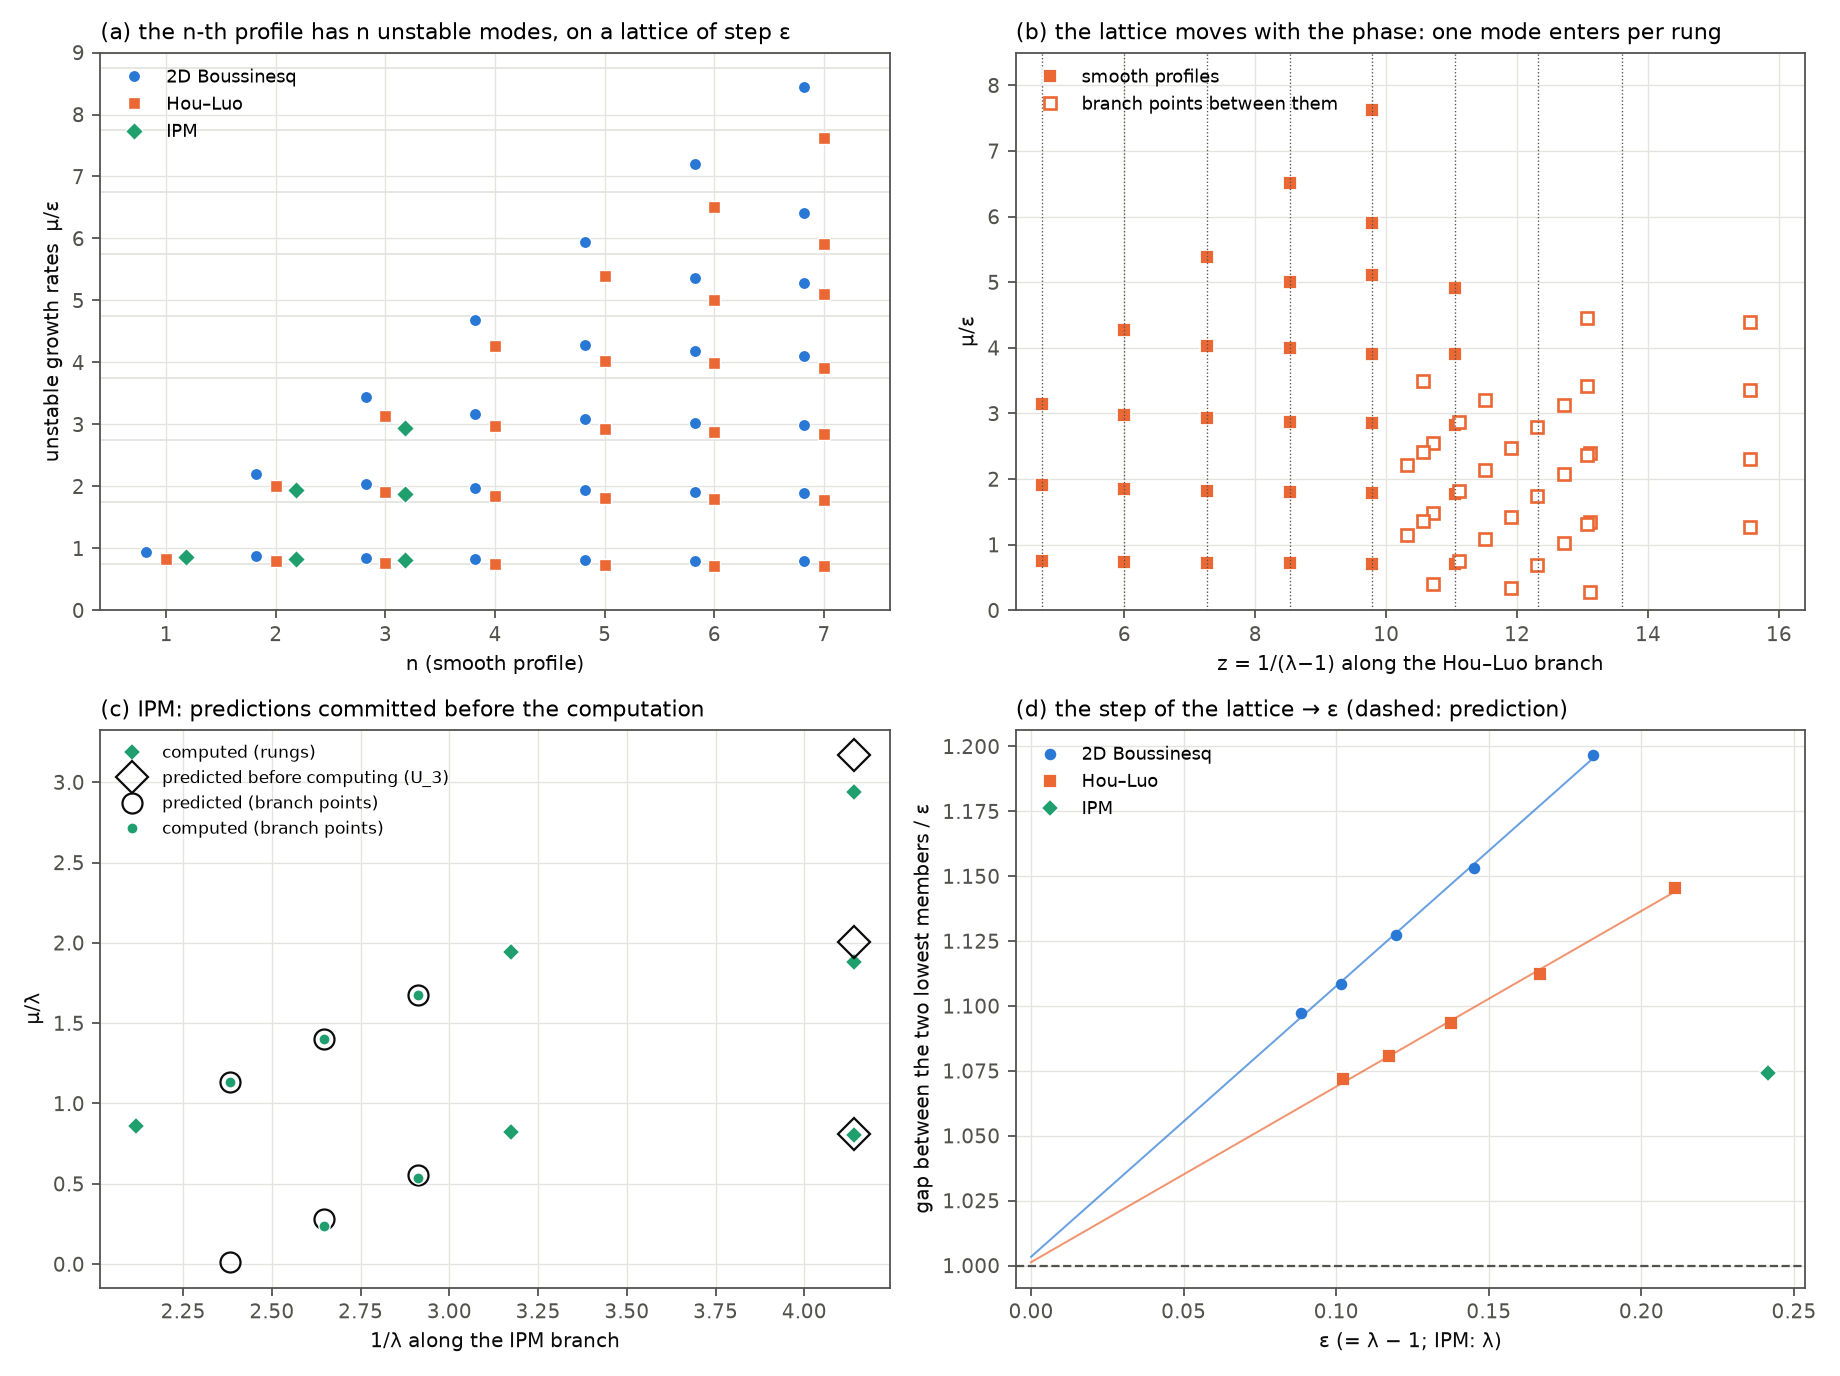
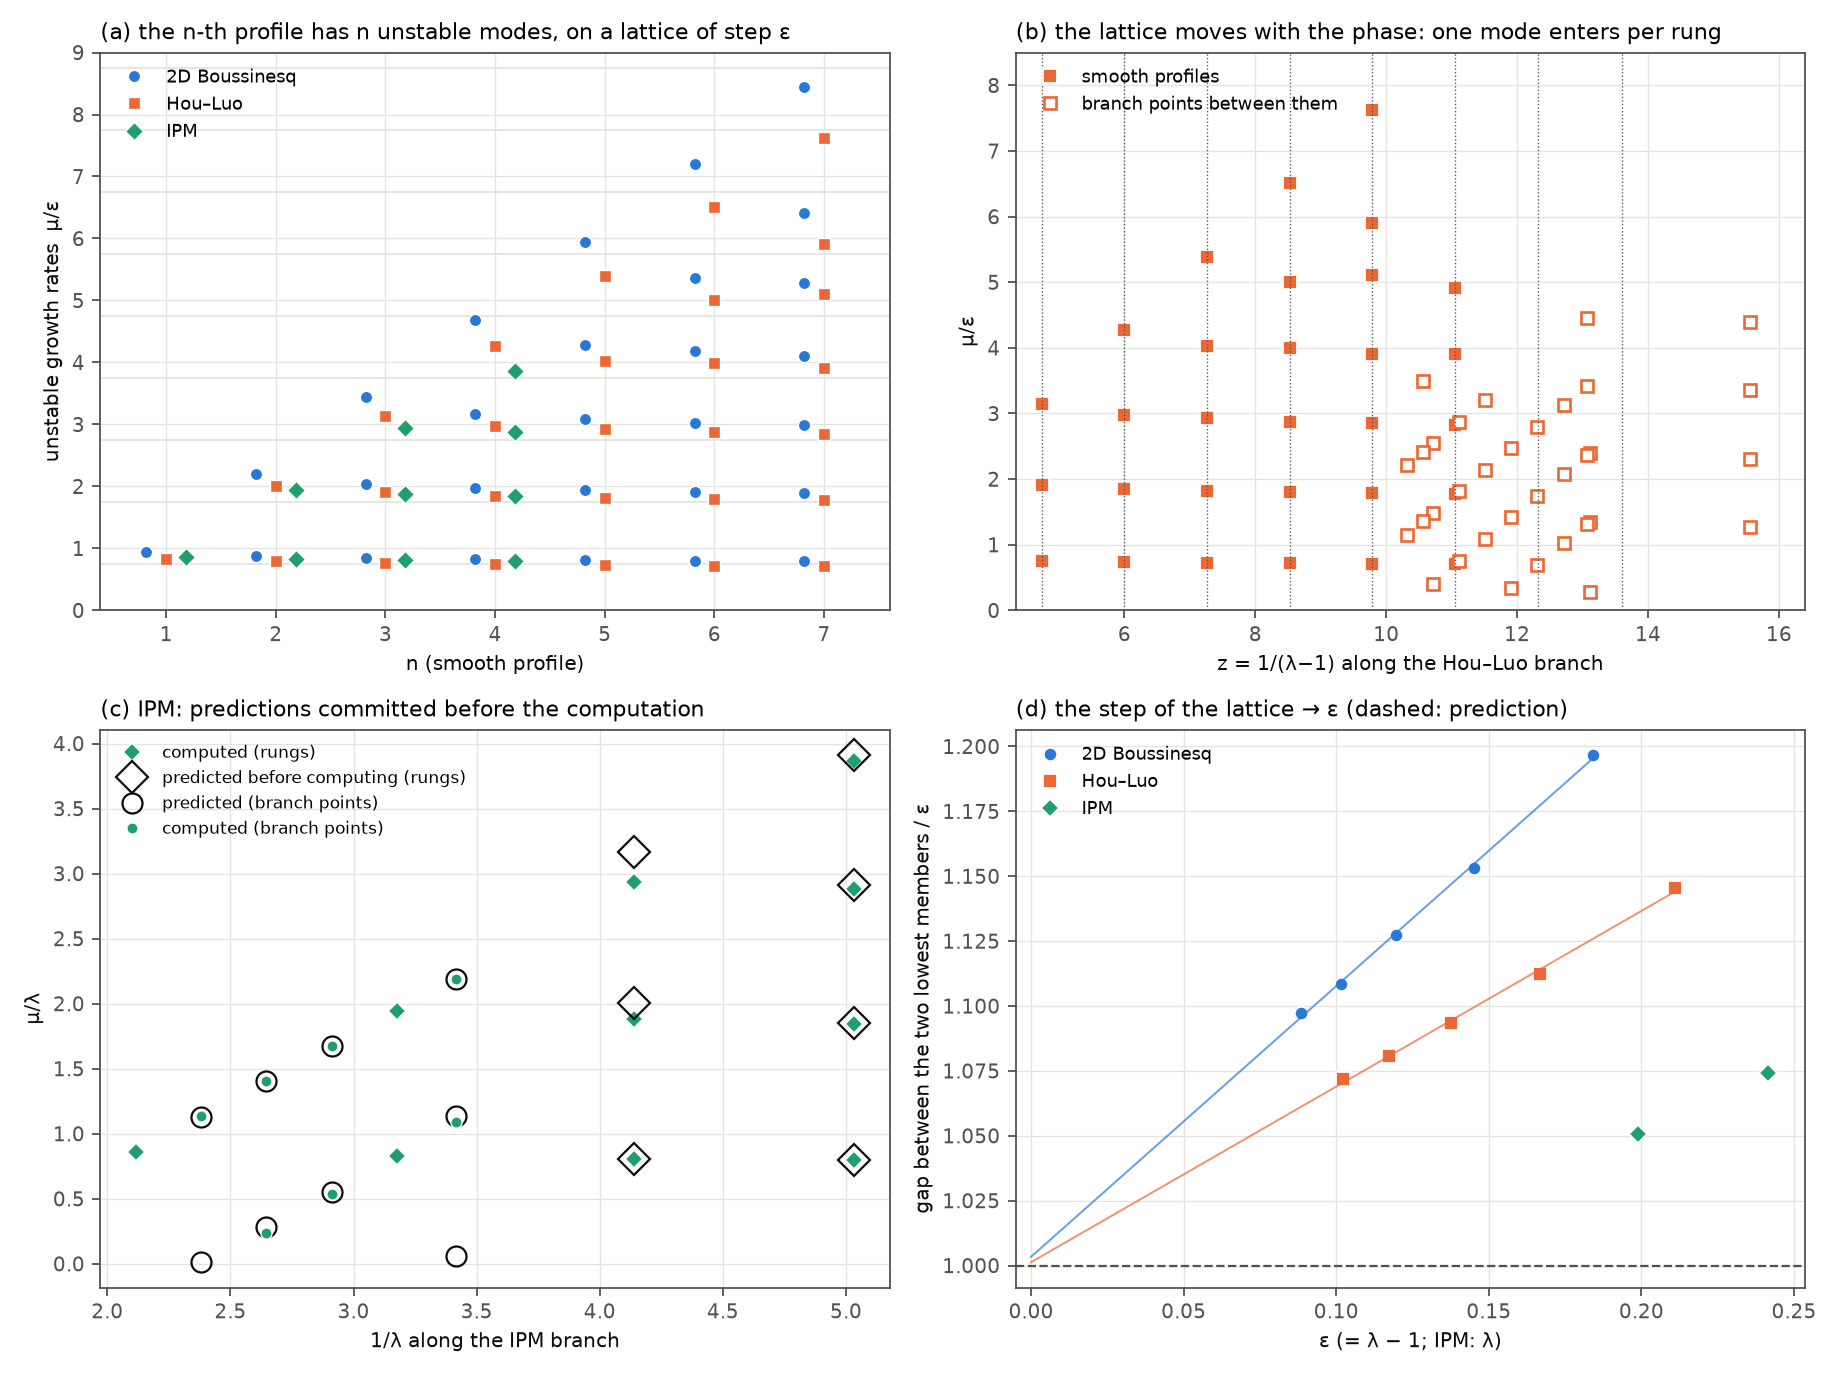
P03: final figures (IPM rungs on the fine grid, U_4, second spectral-flow interval), main text and presubmission enquiry updated with the IPM blind-test outcome; RLOG R033
Claude-Session: https://claude.ai/code/session_019Uaxwtm17foVxpyvRRENv5

diff --git a/programs/P03_boussinesq_ladder/fig_spectrum_main.py b/programs/P03_boussinesq_ladder/fig_spectrum_main.py
@@ -90,14 +90,16 @@ b.legend(fontsize=8, frameon=False, loc='upper left')
 # (c) IPM blind test
 c = ax[1, 0]
 pred = {}
-if os.path.exists("ipm_stage2a_predictions.out"):
-    for line in open("ipm_stage2a_predictions.out"):
-        m = re.search(r"PREDICTION ν̂ = μ/λ of U_(\d): \[([^\]]*)\]", line)
-        if m:
-            pred[('U', int(m.group(1)))] = [float(x) for x in m.group(2).split(',')]
-        m = re.search(r"f = ([0-9.]+) \(z = ([0-9.]+), λ = ([0-9.]+)\): predicted ν̂ = \[([^\]]*)\]", line)
-        if m:
-            pred[('bp', float(m.group(1)))] = (float(m.group(2)), [float(x) for x in m.group(4).split(',') if x.strip()])
+for fnp in ("ipm_stage2a_predictions.out", "ipm_stage2b_predictions.out"):
+  if not os.path.exists(fnp):
+    continue
+  for line in open(fnp):
+    m = re.search(r"PREDICTION ν̂ = μ/λ of U_(\d): \[([^\]]*)\]", line)
+    if m:
+        pred[('U', int(m.group(1)))] = [float(x) for x in m.group(2).split(',')]
+    m = re.search(r"f = ([0-9.]+) \(z = ([0-9.]+), λ = ([0-9.]+)\): predicted ν̂ = \[([^\]]*)\]", line)
+    if m and (fnp.endswith("2a_predictions.out") or float(m.group(1)) == 0.25):
+        pred[('bp', fnp[-17:-16], float(m.group(1)))] = (float(m.group(2)), [float(x) for x in m.group(4).split(',') if x.strip()])
 for n, (lam_, v) in ipm.items():
     if n >= 1:
         c.plot([1 / lam_] * len(v), v, 'D', color=COL['IPM'], ms=6, mec='white', mew=0.8,
@@ -108,12 +110,12 @@ for key, val in pred.items():
         zz = zz[0] if zz else None
         if zz:
             c.plot([zz] * len(val), val, 'D', mfc='none', mec=INK, mew=1.0, ms=10,
-                   label=f'predicted before computing (U_{key[1]})')
+                   label='predicted before computing (rungs)' if key[1] == 3 else None)
     else:
         zf, v = val
-        c.plot([zf] * len(v), v, 'o', mfc='none', mec=INK, mew=1.0, ms=9, label='predicted (branch points)' if key[1] == 0.5 else None)
-for fr, tag in ((0.25, '025'), (0.5, '050'), (0.75, '075')):
-    r = ipm_result(f"ipm_spec_bp{tag}.out")
+        c.plot([zf] * len(v), v, 'o', mfc='none', mec=INK, mew=1.0, ms=9, label='predicted (branch points)' if key[2] == 0.5 else None)
+for fr, tag in ((0.25, 'bp025'), (0.5, 'bp050'), (0.75, 'bp075'), (0.25, '23b025')):
+    r = ipm_result(f"ipm_spec_{tag}.out")
     if r:
         c.plot([1 / r[0]] * len(r[1]), r[1], 'o', color=COL['IPM'], ms=5, mec='white', mew=0.6,
                label='computed (branch points)' if fr == 0.5 else None)

diff --git a/programs/P03_boussinesq_ladder/fig_hierarchy.py b/programs/P03_boussinesq_ladder/fig_hierarchy.py
@@ -13,14 +13,18 @@ plt.rcParams.update({'font.size': 9, 'axes.edgecolor': MUTED, 'axes.labelcolor':
                      'ytick.color': MUTED, 'axes.grid': True, 'grid.color': GRID, 'grid.linewidth': 0.6})
 
 
+FINE = {5: 0.1706180880, 6: 0.15092}      # h_s = 0.0125 values supersede h_s = 0.025 (PREDICTIONS_IPM.md)
+
+
 def ipm_rungs():
     out = {}
     for f in glob.glob("ipm_rung[0-9].out"):
+        n = int(re.search(r"ipm_rung(\d)\.out", f).group(1))
         for line in open(f):
             m = re.search(r"CROSSING .*: λ = ([0-9.]+)", line)
             if m:
-                out[float(m.group(1))] = True
-    return sorted(out, reverse=True)
+                out[n] = FINE.get(n, float(m.group(1)))
+    return [out[n] for n in sorted(out)]
 
 
 data = {
@@ -49,6 +53,14 @@ ax.set_ylabel('1/ε_n   (ε = exponent of the transported scalar)')
 ax.plot([], [], 'o', mfc='white', mec=MUTED, label='reported before'); ax.plot([], [], 'o', color=MUTED, label='this work')
 ax.legend(fontsize=8, frameon=False, loc='upper left')
 ax.set_xlim(-0.4, 12.9); ax.set_ylim(0, 16.5)
+ins = ax.inset_axes([0.60, 0.08, 0.37, 0.34])
+lam_ipm = np.array(ipm_rungs()); lc = 0.0370
+zz = 1 / (lam_ipm - lc); nn = np.arange(len(zz))
+ins.plot(nn, zz, 'o', color=COL['IPM'], ms=4.5, mec='white', mew=0.6)
+pp = np.polyfit(nn[1:], zz[1:], 1); ins.plot(nn, np.polyval(pp, nn), '-', color=COL['IPM'], lw=0.9, alpha=0.7)
+ins.set_title(f'IPM: 1/(λ − λ_c), λ_c = {lc}', fontsize=7.5, color=INK)
+ins.tick_params(labelsize=7); ins.set_xlabel('n', fontsize=7.5)
+ins.text(0.05, 0.8, f'spacing {pp[0]:.3f} (±0.3 %)', transform=ins.transAxes, fontsize=7, color=MUTED)
 plt.tight_layout(); plt.savefig('fig_hierarchy.png', dpi=170)
 for name, (z, k) in data.items():
     print(name, np.round(z, 4).tolist())

diff --git a/programs/P03_boussinesq_ladder/fig_endings.py b/programs/P03_boussinesq_ladder/fig_endings.py
@@ -35,12 +35,11 @@ with contextlib.redirect_stdout(io.StringIO()):
     from ladder_fit import bq_lam, hl_lam
 rungs = {"2D Boussinesq": [1 / (l - 1) for l in bq_lam],
          "Hou–Luo": [1 / (l - 1) for l in list(hl_lam) + [1.08113374, 1.07355524]],
-         "IPM": sorted(1 / float(m.group(1)) for f in glob.glob("ipm_rung[0-9].out") for line in open(f)
-                       for m in [re.search(r"CROSSING .*: λ = ([0-9.]+)", line)] if m)}
+         "IPM": [1 / l for l in (1.0285722975, 0.4721297256, 0.3149621637, 0.2415660984, 0.1987299872, 0.1706180880, 0.15092)]}
 # branch scans, restricted to where they are resolved (beyond, only the refined rungs are shown)
 for name, pat, ipm, zmax, yr in (("2D Boussinesq", "scan2_[ABCF].npy", False, 9.0, 4e-10),
                                  ("Hou–Luo", "hl_scan_[DE].npy", False, 9.9, 2e-10),
-                                 ("IPM", "ipm_branch_*.npy", True, 99, 1e-10)):
+                                 ("IPM", "ipm_branch_dn*.npy", True, 6.3, 1e-10)):
     z, f = load(pat, ipm)
     k = (z > 0.9) & (z < zmax) & (np.abs(f) > 0)
     a.semilogy(z[k], np.abs(f[k]), '-', color=COL[name], lw=1.3, label=name)

diff --git a/programs/P03_boussinesq_ladder/fig_mechanism.py b/programs/P03_boussinesq_ladder/fig_mechanism.py
@@ -28,13 +28,12 @@ def load(pattern, ipm=False):
 
 hl_all = list(hl_lam) + [1.08113374, 1.07355524]
 rungs = {"2D Boussinesq": [1 / (l - 1) for l in bq_lam], "Hou–Luo": [1 / (l - 1) for l in hl_all],
-         "IPM": sorted(1 / float(m.group(1)) for f in glob.glob("ipm_rung[0-9].out") for line in open(f)
-                       for m in [re.search(r"CROSSING .*: λ = ([0-9.]+)", line)] if m)}
+         "IPM": [1 / l for l in (1.0285722975, 0.4721297256, 0.3149621637, 0.2415660984, 0.1987299872, 0.1706180880, 0.15092)]}
 fig, ax = plt.subplots(2, 2, figsize=(11.5, 8.4))
 a = ax[0, 0]
 for name, pat, ipm, zmax, yr in (("2D Boussinesq", "scan2_[ABCF].npy", False, 9.0, 4e-10),
                                  ("Hou–Luo", "hl_scan_[DE].npy", False, 9.9, 2e-10),
-                                 ("IPM", "ipm_branch_*.npy", True, 99, 1e-10)):
+                                 ("IPM", "ipm_branch_dn*.npy", True, 6.3, 1e-10)):
     z, f = load(pat, ipm)
     k = (z > 0.9) & (z < zmax) & (np.abs(f) > 0)
     a.semilogy(z[k], np.abs(f[k]), '-', color=COL[name], lw=1.3, label=name)

diff --git a/dossier/P03_PRESUBMISSION_ENQUIRY.md b/dossier/P03_PRESUBMISSION_ENQUIRY.md
@@ -1,7 +1,13 @@
 # Presubmission enquiry — Nature (draft; not sent)
 
-*For the authors to edit and send. Nothing has been submitted anywhere. Items marked ⟨IPM⟩ are filled in when the
-blind test in PREDICTIONS_IPM.md is complete.*
+*For the authors to edit and send. Nothing has been submitted anywhere.*
+
+**Before sending, check the following against the literature.**
+- The published IPM blow-up rates λ₂–λ₄ (Wang et al. 2025; Wang–Léger–Lai–Buckmaster 2025), against ours:
+  0.3149622, 0.2415661, 0.1987300.
+- Whether any of the explanations claimed here has appeared since.
+
+Neither literature source was reachable from this environment.
 
 ---
 
@@ -40,19 +46,28 @@ incompressible fluids come in hierarchies, and why the n-th profile has exactly 
 3. **Spacing constant.** For the Hou–Luo model the constant follows from an explicit λ → 1 limit problem, an airfoil
    equation on the stalled layer plus transport of the shed vorticity. It gives π/C = 1.279 against 1.276–1.284
    extrapolated from eleven computed profiles.
-4. **Blind test.** For IPM we wrote down and time-stamped the predictions (infinite ladder, index n, spectral lattice
-   of step λ_n, rigid spectral flow) before computing anything. ⟨IPM outcome: rungs, indices, spectra, spectral flow
-   versus prediction⟩.
+4. **Blind test.** For IPM we wrote down and time-stamped the predictions before computing anything: infinite
+   ladder, index n, spectral lattice of step λ_n, and rigid spectral flow. Each further profile was predicted from
+   the lower ones before it was computed.
+   - **What held.** The spectral predictions held. The index is n; the four unstable growth rates of the fifth
+     profile were predicted to 0.2–1.2 %; the spectral flow between profiles was predicted to 1e-3; and the
+     profile positions to 0.1–6 % of a spacing.
+   - **What failed.** The predicted accumulation at λ → 0 failed. The IPM profiles obey the same linear law, but
+     about a finite accumulation point λ_c = 0.037 (constant spacing to 0.3 % over six intervals), where the
+     boundary flow turns sonic.
+   - **What it teaches.** The quantization and the spectral structure are common to the models. The location of
+     the accumulation point is set by where the boundary flow stalls.
 5. **Finite versus infinite.** When the branch ends instead at a sonic cusp at finite parameter, as in CCF, the
    phase still diverges but the defect oscillates about a non-zero value. The hierarchy then stops, after three
    profiles.
 
 **Evidence.**
-- Eight 2D Boussinesq profiles, four of them new (n = 4–7), eleven Hou–Luo profiles and ⟨IPM⟩ IPM profiles.
+- Eight 2D Boussinesq profiles, four of them new (n = 4–7), eleven Hou–Luo profiles and seven IPM profiles, of
+  which n = 5, 6 are new.
 - Every Boussinesq profile is reproduced by an independent solver.
 - Exact instability counts (argument principle, with grid and domain variants, plus exclusion of large |Im μ|):
-  n for n ≤ 7 in 2D, n ≤ 10 in Hou–Luo, ⟨n ≤ ·⟩ in IPM, all real.
-- Spectral flow at 9 (Hou–Luo), 5 (2D) and ⟨3⟩ (IPM) branch points between profiles.
+  n for n ≤ 7 in 2D, n ≤ 10 in Hou–Luo and n ≤ 4 in IPM, all real.
+- Spectral flow at 9 (Hou–Luo), 5 (2D) and 4 (IPM, predicted blind) branch points between profiles.
 
 **Scope.**
 - The infinite hierarchy and the eigen-condition are derived by formal matched asymptotics, and every hypothesis is
@@ -81,7 +96,8 @@ solutions: a wave trapped in a stalled boundary layer accumulates a phase C/ε a
 scalar decreases, and each half-turn produces a new profile. The same phase, shifted by πμ/ε at the stagnation
 point, quantizes the instability growth rates μ into a lattice of step ε that admits one new unstable mode per
 half-turn, so the n-th profile has exactly n. For the Hou–Luo model we derive the asymptotic spacing from a limit
-problem (π/C = 1.279), in agreement with eleven computed profiles. We find four new 2D Boussinesq profiles and, in
-a blind test on the porous-media equation, ⟨IPM⟩. Where the branch instead ends at a sonic cusp, as in the
-Córdoba–Córdoba–Fontelos model, the hierarchy is finite. The results turn an empirical catalogue of fluid
+problem (π/C = 1.279), in agreement with eleven computed profiles. We find four new 2D Boussinesq profiles. In a
+blind test on the porous-media equation, the predicted spectra held to about 1 %, while the predicted
+accumulation point did not: the hierarchy accumulates where the boundary flow stalls. Where the branch instead ends
+at a sonic cusp, as in the Córdoba–Córdoba–Fontelos model, the hierarchy is finite. The results turn an empirical catalogue of fluid
 singularities into a predictive mechanism.

diff --git a/dossier/P03_NATURE_MAIN.md b/dossier/P03_NATURE_MAIN.md
@@ -5,8 +5,10 @@
 technical draft `P03_MANUSCRIPT_DRAFT.md`, together with ASYMPTOTICS.md, INSTABILITY_LADDER.md and
 PREDICTIONS_IPM.md, is the Supplementary Information.*
 
-**Status of this draft:** the IPM paragraphs are filled in as the blind test (PREDICTIONS_IPM.md) proceeds.
-Placeholders are marked ⟨IPM⟩.
+**Status of this draft:**
+- All numbers are final for this version.
+- Before submission, compare our IPM λ₂–λ₄ with the published neural-network values (Wang et al. 2025;
+  Wang–Léger–Lai–Buckmaster 2025). They were not accessible from this environment.
 
 ## Abstract
 Self-similar blow-up in incompressible fluids comes in hierarchies. The stable profile of the Hou–Luo scenario is
@@ -165,27 +167,27 @@ Numerical predictions for each next profile were then committed before that prof
 from the lower profiles by a fixed rule.
 
 **Outcome (full scorecard in PREDICTIONS_IPM.md).**
-- **Profiles.** We find seven IPM profiles: λ = 1.0285723, 0.4721297, 0.3149622, 0.2415661, 0.1987300, 0.1708490
-  and 0.15177 ⟨fine-grid value⟩.
+- **Profiles.** We find seven IPM profiles: λ = 1.0285723, 0.4721297, 0.3149622, 0.2415661, 0.1987300, 0.1706181
+  and 0.15092. The last two are computed on the finer grid, and the others are accurate to ≲1 % of a spacing.
   - The first two reproduce the published values. n ≤ 4 have been reported before, by neural-network methods.
-  - Each rung from λ₃ on was predicted from the lower ones before it was computed, and landed within 2–6 % of a
-    rung spacing.
+  - Each rung from λ₃ on was predicted from the lower ones before it was computed. The errors were 6 %, 2.5 %, 2 % and
+    0.1 % of a rung spacing, for λ₃ through λ₆.
   - The straight line through the first two profiles, the empirical law of the literature, is off by 28 % of a
     spacing already at λ₃, and more further on.
 - **Spectrum: every parameter-free prediction held.**
-  - The index is exactly n (argument-principle counts, n ≤ 3; ⟨4⟩).
+  - The index is exactly n for n = 0–4 (argument-principle counts for n ≤ 3; real-mode count for n = 4).
   - All modes are real.
-  - The growth rates lie on a lattice of step λ_n: U₃ has μ/λ₃ = 0.805, 1.879, 2.937, gaps 1.07 and 1.06.
-    ⟨U₄: …⟩.
-  - The lowest member of U₃ was predicted to within 0.2 %.
+  - The growth rates lie on a lattice of step λ_n: U₃ has μ/λ₃ = 0.805, 1.879, 2.937, and U₄ has 0.796, 1.846,
+    2.879, 3.868.
+  - The lowest member of U₃ was predicted to within 0.2 %, and all four members of U₄ to within 0.2–1.2 %.
 - **Spectral flow.** Between rungs every member moves linearly with the phase. The member that continues from the
   top of one rung to the top of the next was predicted to within 0.001–0.0014 at four branch points; the others
   to within 0.05. The unstable modes peak at the dip of the boundary flow, as predicted.
 - **What failed: where the ladder accumulates.**
   - We predicted accumulation as λ → 0, with spacings in 1/λ tending to a constant. Instead the spacings contract
-    by a nearly constant factor, 0.92 per rung (1.146, 1.057, 0.965, 0.892, 0.821, 0.736).
-  - The rungs obey the one-phase linear law (1) in the shifted variable 1/(λ − λ_c), with λ_c = 0.038, the spacing
-    constant to 0.2 % for n = 1–5. The same fit returns the known accumulation point λ_c = 1.000 for Boussinesq and
+    by a nearly constant factor, 0.92 per rung (1.146, 1.057, 0.965, 0.892, 0.829, 0.765).
+  - The rungs obey the one-phase linear law (1) in the shifted variable 1/(λ − λ_c), with λ_c = 0.037, the spacing
+    (1.296) constant to 0.3 % over six intervals. The same fit returns the known accumulation point λ_c = 1.000 for Boussinesq and
     Hou–Luo.
   - The dip of the boundary flow deepens faster than λ and extrapolates to closure near λ ≈ 0.09.
   - Both point to an IPM branch that ends at *finite* λ. There the dip becomes sonic, as in the CCF reduction of

diff --git a/ledger/RLOG.md b/ledger/RLOG.md
@@ -397,3 +397,42 @@ z = 10.6 → 33, as the dip deepens (D̂_min ∝ ε^{0.31–0.36}). So Ω_f → 
 - The IPM T_μ passes the time-translation test: |T₁x − x|/|x| = 5e-8.
 - Ground state λ₀ = 1.0285722975. First unstable rung λ₁ = 0.4721297256.
 - For comparison, the empirical law of Wang et al. gives 1.0285 and 0.4721.
+
+### R033 — P03: IPM blind test (stages 1–2d), index validation, figures and main text
+**Protocol.**
+- Predictions P1–P6 were committed before any IPM continuation (4dc82af).
+- Numerical predictions for each next rung and spectrum were committed before computing it (b9486fb, 03e5cbb,
+  4bb5a6f, 37ce8de, 90d408e, b69afd7).
+
+**IPM rungs.** Seven: λ = 1.0285723, 0.4721297, 0.3149622, 0.2415661, 0.1987300, 0.1706181 (h_s 0.0125) and 0.15092
+(h_s 0.0125).
+- λ₀ and λ₁ match the published values. n ≤ 4 have been reported by neural-network methods; n = 5, 6 are new.
+
+**Predictions that held.**
+- Index n for n = 0–4, all real. Contour counts give 1.947, 3.082 and 4.077 for n = 1–3, counted up to |Im μ| = 2.5.
+- Spectral lattice of step λ_n. The gaps at U₄ are 1.05, 1.03 and 0.99.
+- The U₄ spectrum, predicted to 0.2–1.2 %.
+- Spectral flow between rungs: 1e-3 for the continuing member at four branch points, 0.05 for the others.
+- Front localization.
+- Rungs λ₃–λ₆ predicted to 6 %, 2.5 %, 2 % and 0.1 % of a spacing.
+
+**Predictions that failed.**
+- Accumulation at λ → 0, and spacings increasing. The spacings contract by a factor 0.92 per rung. The ladder is
+  instead linear in 1/(λ − λ_c) with λ_c = 0.037, the spacing 1.296 constant to 0.3 % over six intervals. The same
+  fit returns 1.000 for 2D Boussinesq and Hou–Luo.
+- min V_r/r = O(λ). min V_r/r / λ falls from 0.50 to 0.21, and extrapolates to a closing dip (sonic point) near
+  λ ≈ 0.09.
+- The gap calibration transferred from Hou–Luo and 2D, which was too large.
+
+**Resolution.** On the h_s = 0.025 grid, m jitters by about 1e-7, and λ₆ was off by 5 % of a spacing. On
+h_s = 0.0125 the rungs agree with the predictions. Deeper IPM rungs need the finer grid.
+
+**Index validation.**
+- 2D n = 7: no eigenvalues in the strip [0.05, 1.5] × [1.5, 3.5] (count 0.0000).
+- ρ(T_μ) < 1 at the sampled points for larger |Im μ|, decaying roughly as 2/|Im μ|.
+- VALIDATION.md scopes task C: no computer-assisted proof is claimed, and it lists what one would need.
+
+**Paper.**
+- dossier/P03_NATURE_MAIN.md: main text with four figures — fig_hierarchy, fig_mechanism, fig_spectrum_main and
+  fig_endings.
+- dossier/P03_PRESUBMISSION_ENQUIRY.md: the presubmission enquiry.
